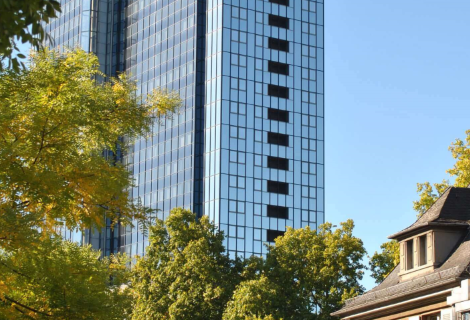
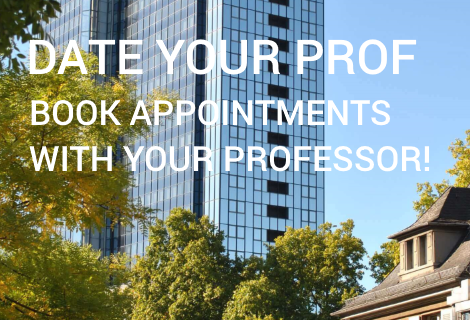
changed splashscreens

diff --git a/mobile-config.js b/mobile-config.js
@@ -17,10 +17,10 @@ App.icons({
 App.launchScreens({
     'android_mdpi_portrait': "public/images/mdpi_portrait.png",//(320x470)
     'android_mdpi_landscape': "public/images/mdpi_landscape.png",//(470x320)
-    'android_hdpi_portrait': "public/images/hdpi_portrait.png",//(480x640)
-    'android_hdpi_landscape': "public/images/hdpi_landscape.png",//(640x480)
-    'android_xhdpi_portrait': "public/images/xhdpi_portrait.png",//(720x960)
-    'android_xhdpi_landscape': "public/images/xhdpi_landscape.png",//(960x720)
+    'android_hdpi_portrait': "public/images/xxhdpi_portrait.png",//(480x640)
+    'android_hdpi_landscape': "public/images/xxhdpi_landscape.png",//(640x480)
+    'android_xhdpi_portrait': "public/images/xxhdpi_portrait.png",//(720x960)
+    'android_xhdpi_landscape': "public/images/xxhdpi_landscape.png",//(960x720)
     'android_xxhdpi_portrait': "public/images/xxhdpi_portrait.png",//(1080x1440)
     'android_xxhdpi_landscape': "public/images/xxhdpi_landscape.png"//(1440x1080)
 });
